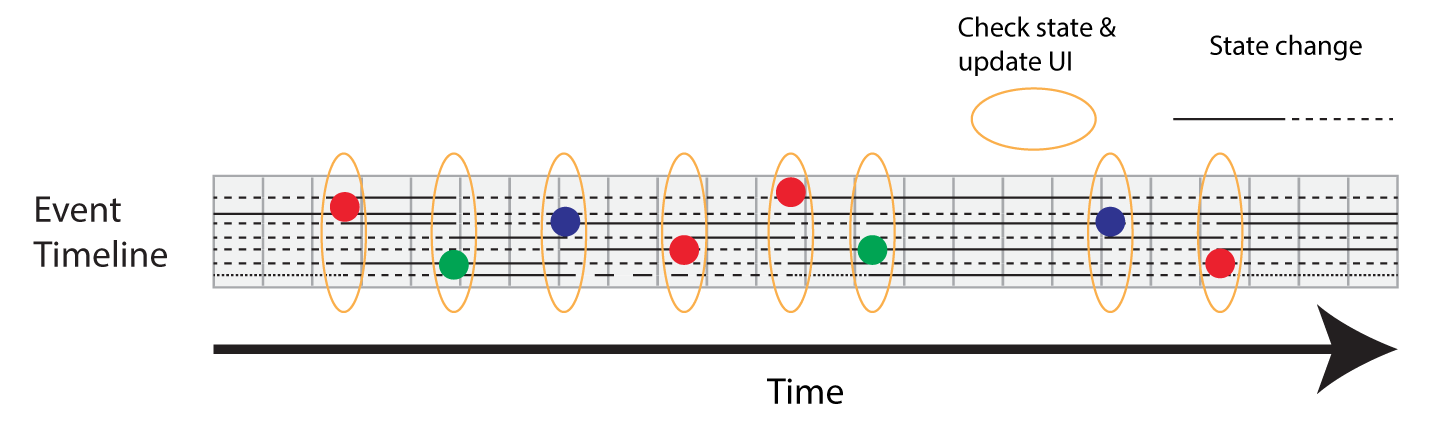
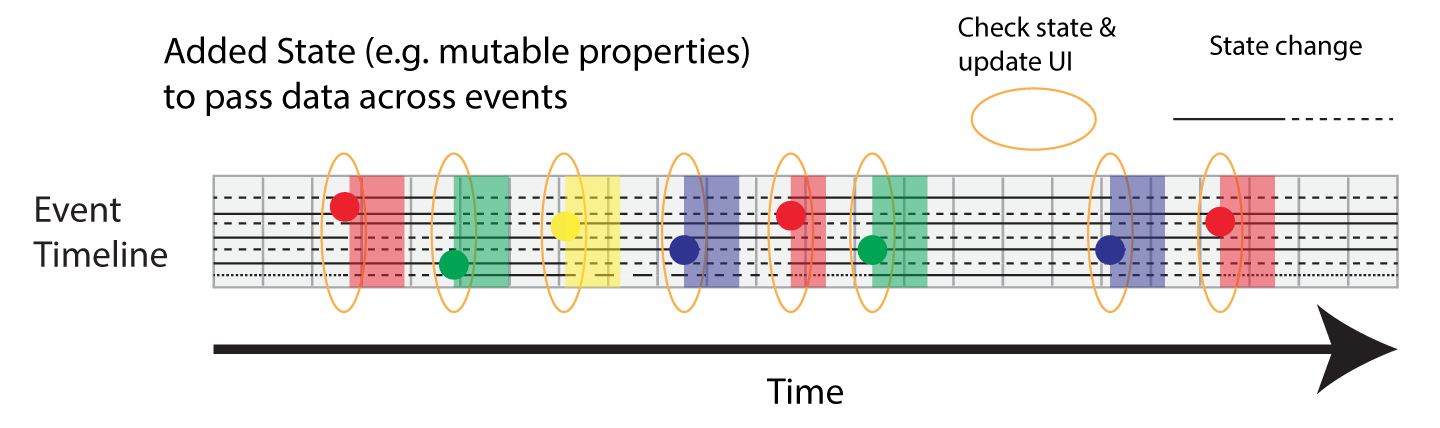
.

diff --git a/Why Reactive Cocoa.md b/Why Reactive Cocoa.md
@@ -7,7 +7,7 @@ The first step is acknowledging you have a problem. I didn't really know that I 
 
 I had very little understanding of what the benefits might be when I began. What I hope to do here is provide some insight as to why (most of) our default style of programming makes things unnecessarily hard on us, and how RAC's Reactive style can improve things considerably.
 
-To start you should probably go read the article ["Inputs and Outputs"](http://blog.maybeapps.com/post/42894317939/input-and-output) by [Josh Aber](https://twitter.com/joshaber). It's an **extremely** well written article that I can only hope to supplement with a slightly different explanation. (Apologies for regurgitating a bit of what he's covered there.)
+To start you should probably go read the article ["Inputs and Outputs"](http://blog.maybeapps.com/post/42894317939/input-and-output) by [Josh Aber](https://twitter.com/joshaber). It's an **extremely** well written article that I can only hope to supplement with a slightly different explanation. (I'll be rehashing a bit of what he's covered there.)
 
 ##Inputs and Outputs
 So what does Josh mean when he says it's all Inputs and Outputs? The entirety of our job, the meat and potatoes of what we are doing when we build an app, is waiting for events to happen that provide some sort of information (inputs), and then acting on some combination of those inputs and generating some kind of output. Inputs come in all kinds. They provide us with varying levels and types of information:
@@ -73,7 +73,7 @@ So what is state? Are we just talking about enums and state machines like `TCQue
 @end
 ```
 
-That should have made you cringe. I'm SURE you've seen (and written) similar code. If not you are either lying, or a WAY better programmer than I am. See UI's are often very complex in code even when they appear simple to the user. In fact, the very reason a user may LOVE your app is the amount of power it delivers in an extremely simple interface.
+That should have made you cringe. I'm SURE you've seen (and written) similar code. If not you are a WAY better programmer than I am. UI's are often very complex in code even when they appear simple to the user. In fact, the very reason a user may LOVE your app is the amount of power it delivers in an extremely simple interface.
 > Value is created by swallowing complexity for the user.  *- CEO of my first startup*
 
 The problem here is that every time you add another state, you are increasing the possible number of combinations in an **EXPONENTIAL** manner. And that's assuming your states are just BOOLs. I had an "aha!" moment when I saw a slide in a talk by [Justin Spahr-Summers](http://twitter.comjspahrsummers).
@@ -88,7 +88,7 @@ To make matters worse, this type of code will often produce UI only bugs that ar
 
 How can we possibly keep this all straight in our heads? We are expending an awful lot of brain power dealing with the consequences of this linear code execution thing, this modern version of the paper tape computer. Despite the power of computers today, we are still doing a heck of a lot of work on their behalf. We're programming to the way the computer hardware works; to the way that the run loop is creating a timeline and the cpu is processing bits in a single file. We are architecting our code around low level implementation details of computing. What if we were to harness the power of the computer, let it do more of the work, and allow ourselves to think and design our apps in a more sane manner?
 
-What if we abstract away the whole pesky notion of time and let the computer track state over time for us? Seems like something the computer would be good at.
+What if we abstract away the whole pesky notion of linear code execution and let the computer track state over time for us? Seems like something the computer would be good at.
 
 ## Non-Linear Programming
 
@@ -100,13 +100,13 @@ The same thing occured with video editing and compositing. Initially it was done
 
 This change to non-linear tools allow for amazing levels of flexibility and creativity, giving the artists several orders of magnitude more power to realize their visions.
 
-Even auto-layout is a great example of moving towards a non-linear (and reactive) approach. Instead of waiting for certain events to occur, then checking the status of a bunch of views and manually updating frames, you just **describe** what the relationships between all the views are ahead of time and let the computer do the work.
+Even auto-layout is a great example of moving towards a non-linear (and reactive) approach. Instead of waiting for certain events to occur, then checking the status of a bunch of views and imperatively updating frames, you just **describe** what the relationships between all the views are ahead of time and let the computer do the work.
 
 ##Compositional Event System
 
-Recently [Jon Sterling](https://twitter.com/jonsterling) mentioned the term "Compositional Event System" in a twittergument about the term used to define RAC and similar styles of programming. I think it fits really well. Much like the shifts in the multimedia tools above, what we really want to do is remove (for the most part) the need to deal with the timeline of when events (inputs) happened, and therefor the need to manually keep track of them with state. We want to make the computer do that for us.
+Recently [Jon Sterling](https://twitter.com/jonsterling) mentioned the term "Compositional Event System" in a twittergument about the term used to define RAC and similar styles of programming. I think it fits really well. Much like the shifts in the multimedia tools above, what we really want to do is remove (for the most part) the need to account for the timeline of when events (inputs) happen, and therefor the need to manually keep track of them with state. We want to make the computer do that for us.
 
-We don't care WHEN events (inputs) happen. We want to get away from that crazy timeline we were managing above, to a system where we just describe up front what happens to our UI (output) whenever a certain combination of inputs occur. We want to define the relationship between events (inputs), define their subsequent outputs, and then let the computer **react** appropriately whenever those events occur. Yes state still exists somewhere in this event system, but it's abstracted away from our day to day work (mostly).
+We want to define the relationship between events (inputs), define their subsequent outputs, and then let the computer **react** appropriately whenever those events occur. State still exists somewhere in this event system, but it's largely abstracted away from our day to day work. That's a big win.
 
 When you think about it, this concept is actually very simple, and not entirely foreign. Inputs and outputs:
 
